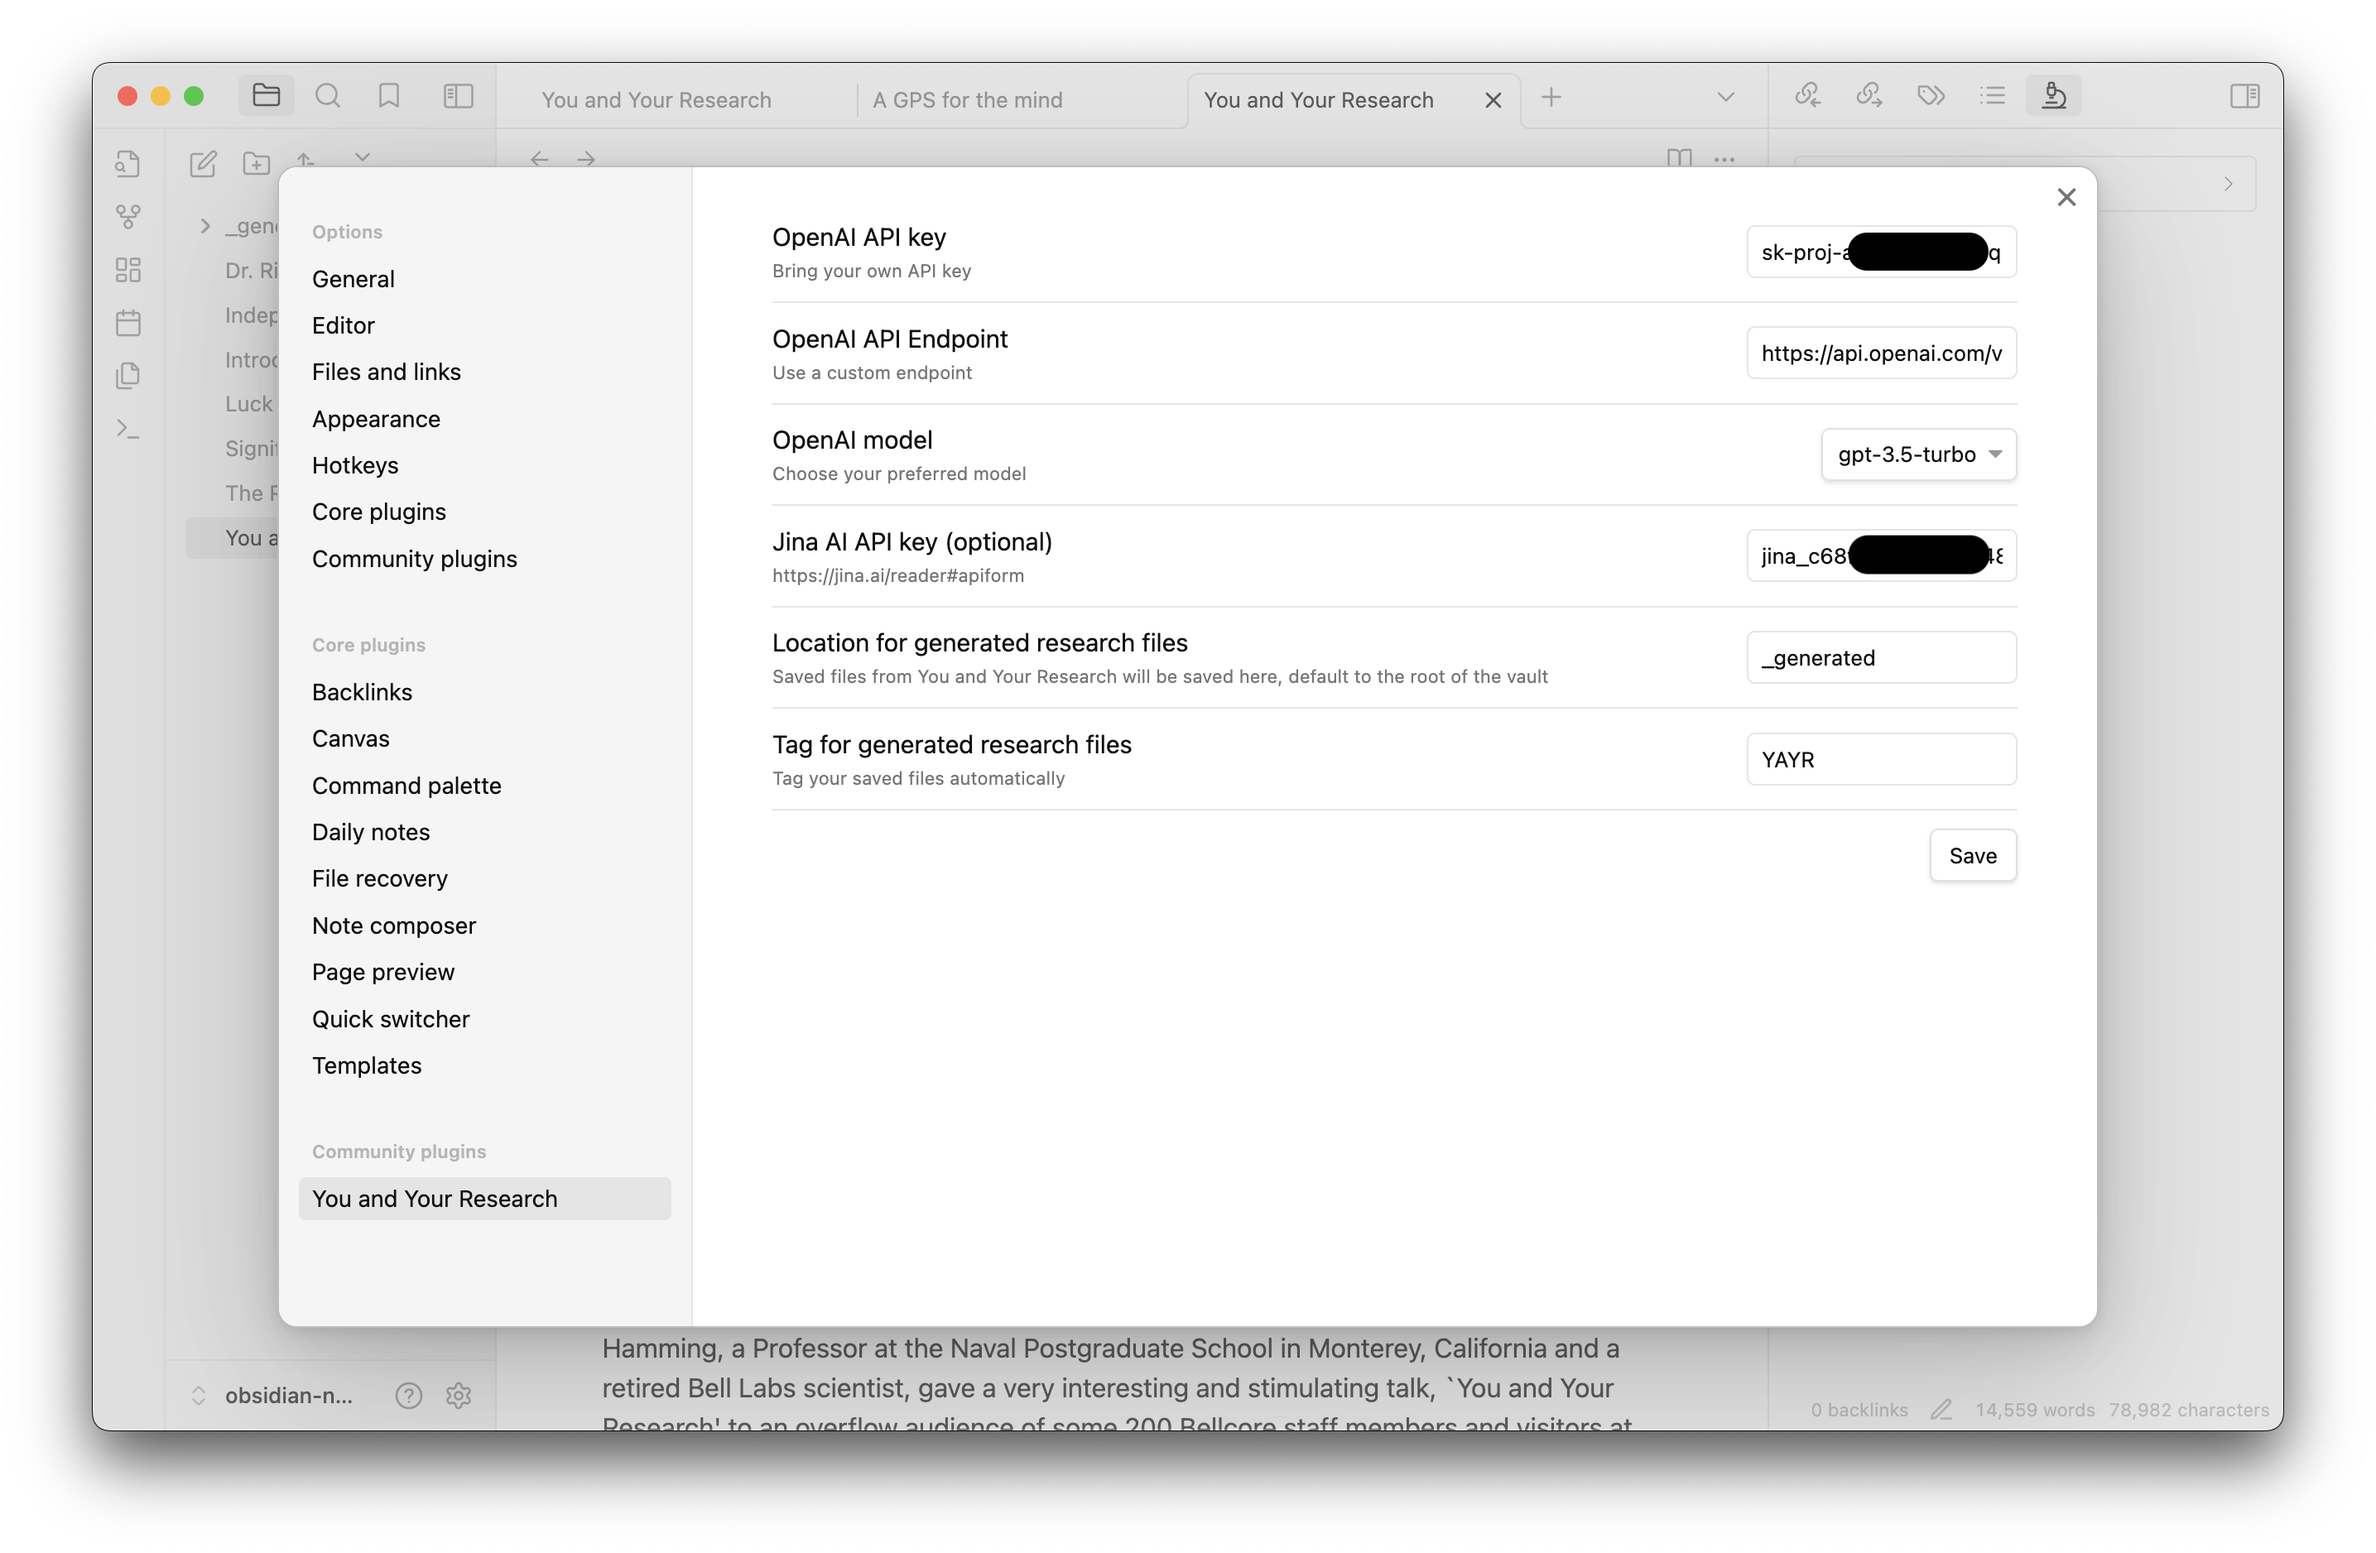
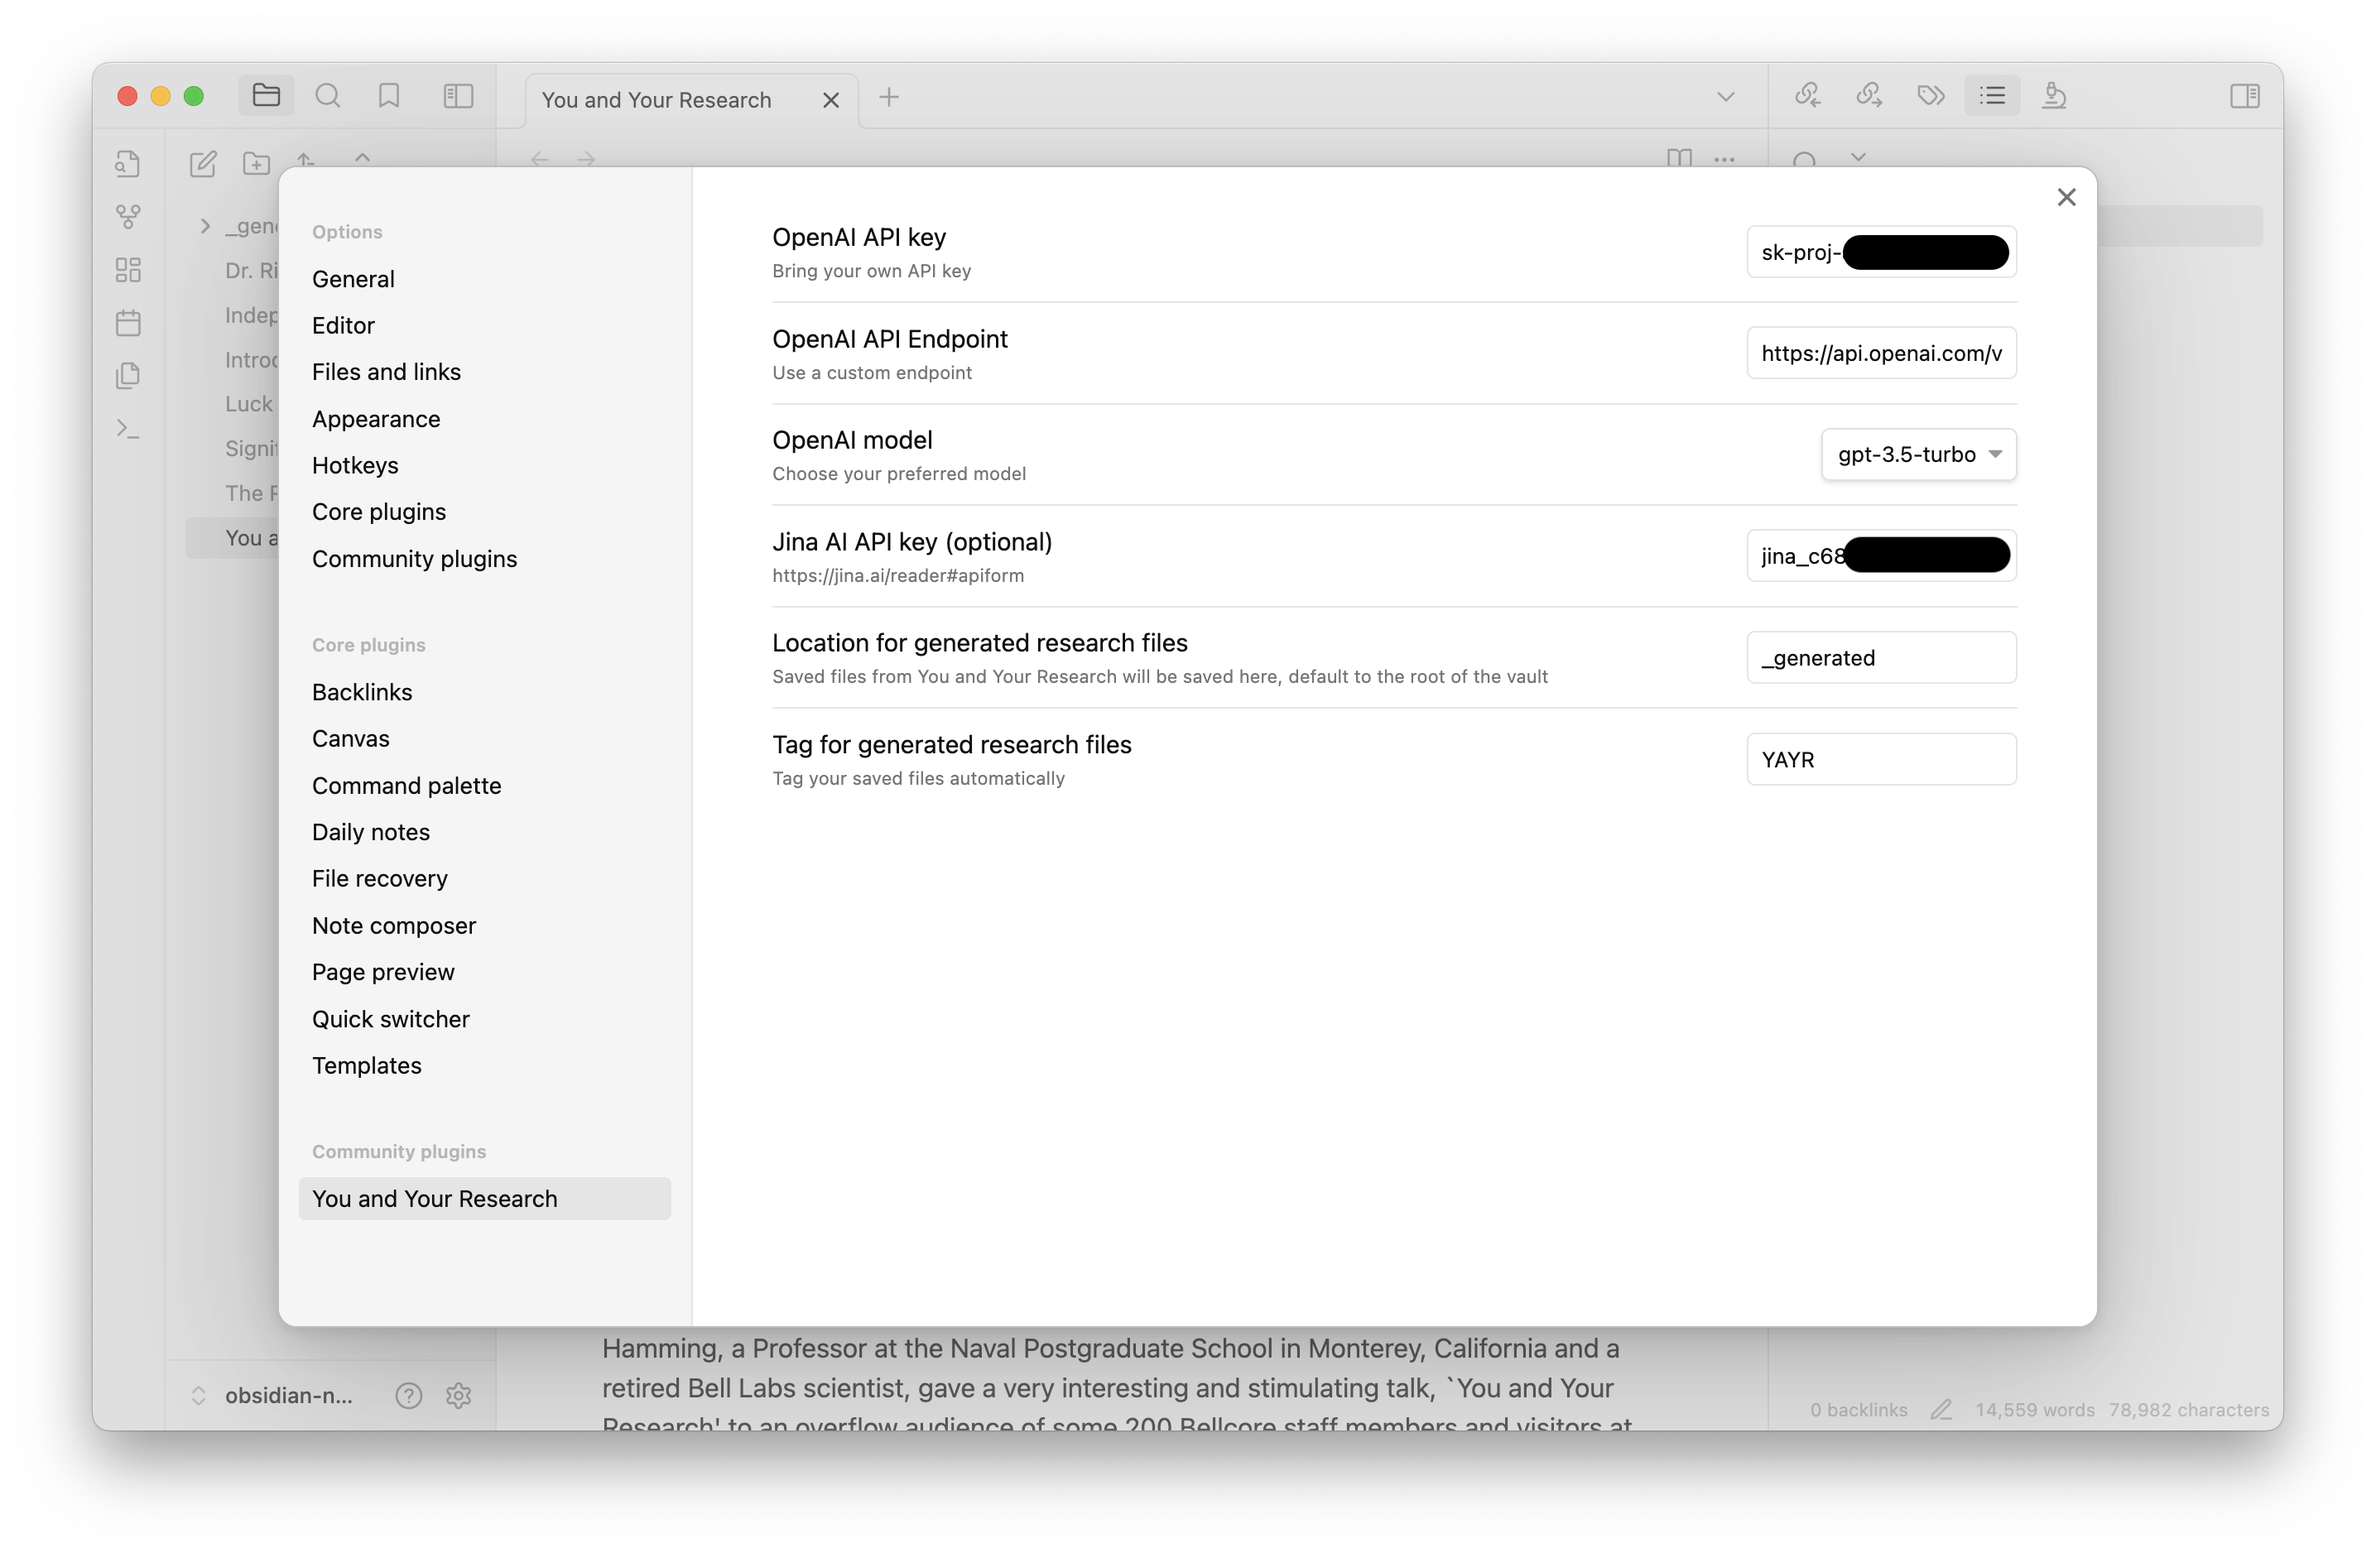
Fixed: removed the "save" button on setting view

diff --git a/src/ui/settings.tsx b/src/ui/settings.tsx
@@ -94,11 +94,5 @@ export class NoteExtractorSettingTab extends PluginSettingTab {
 						await this.plugin.saveSettings();
 					});
 			});
-
-		new Setting(containerEl).addButton((button) =>
-			button.setButtonText("Save").onClick(async () => {
-				await this.plugin.saveSettings();
-			})
-		);
 	}
 }
